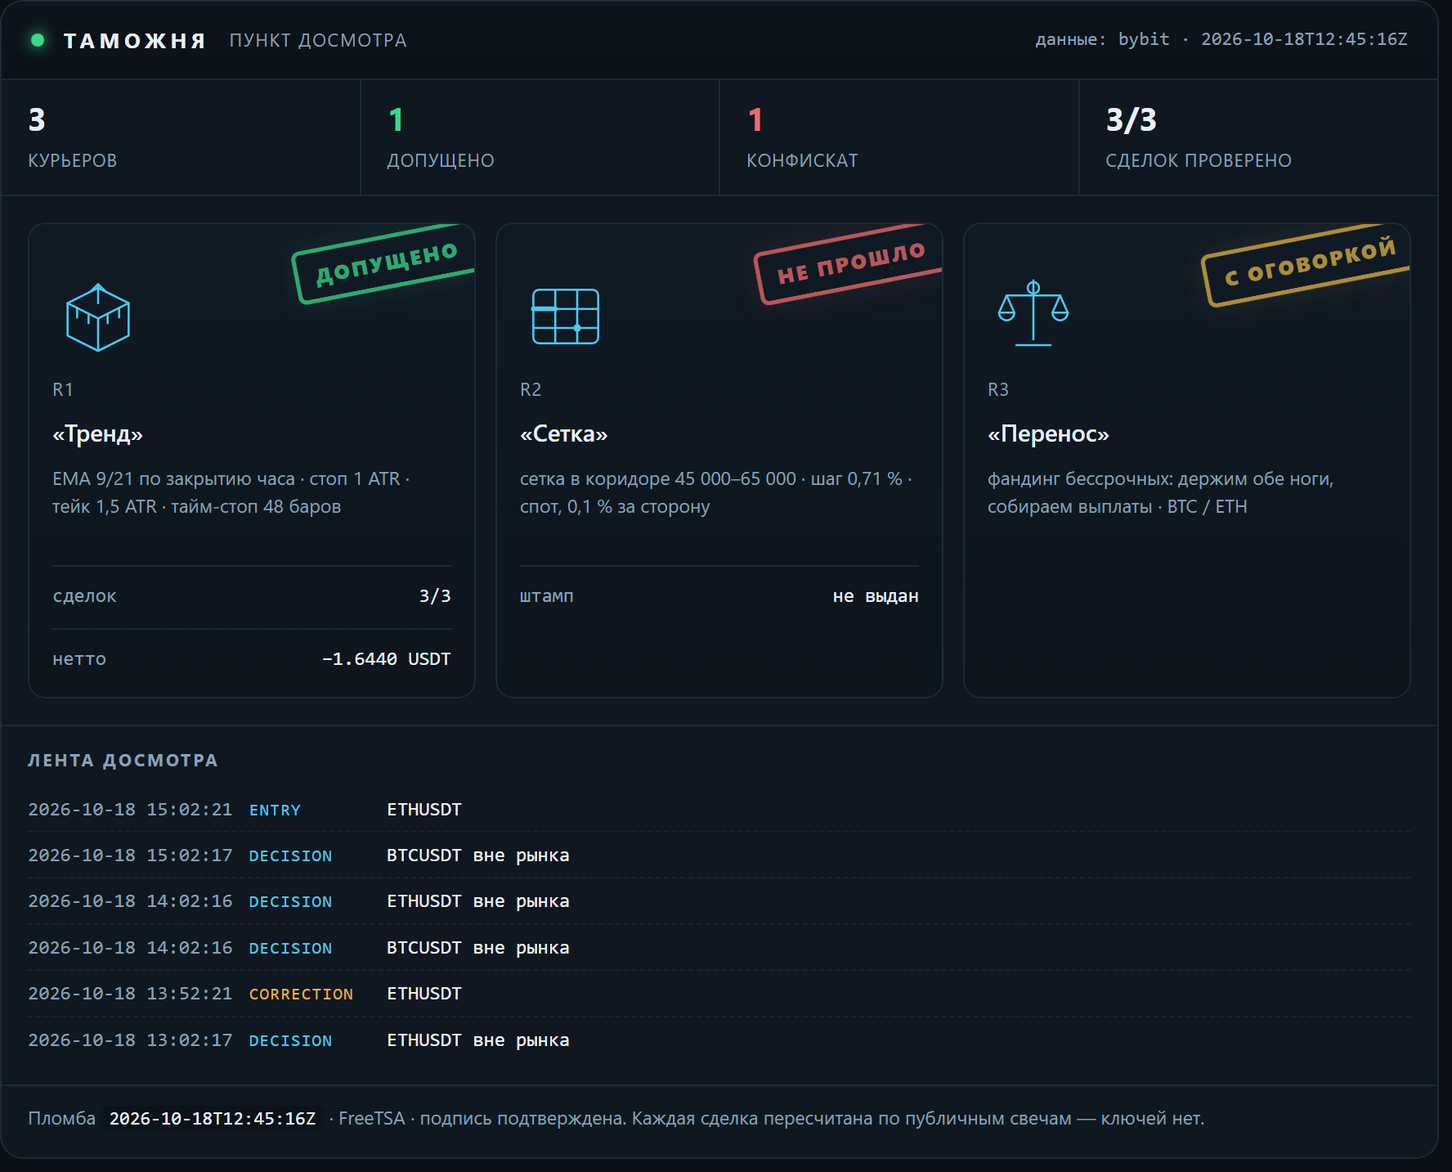
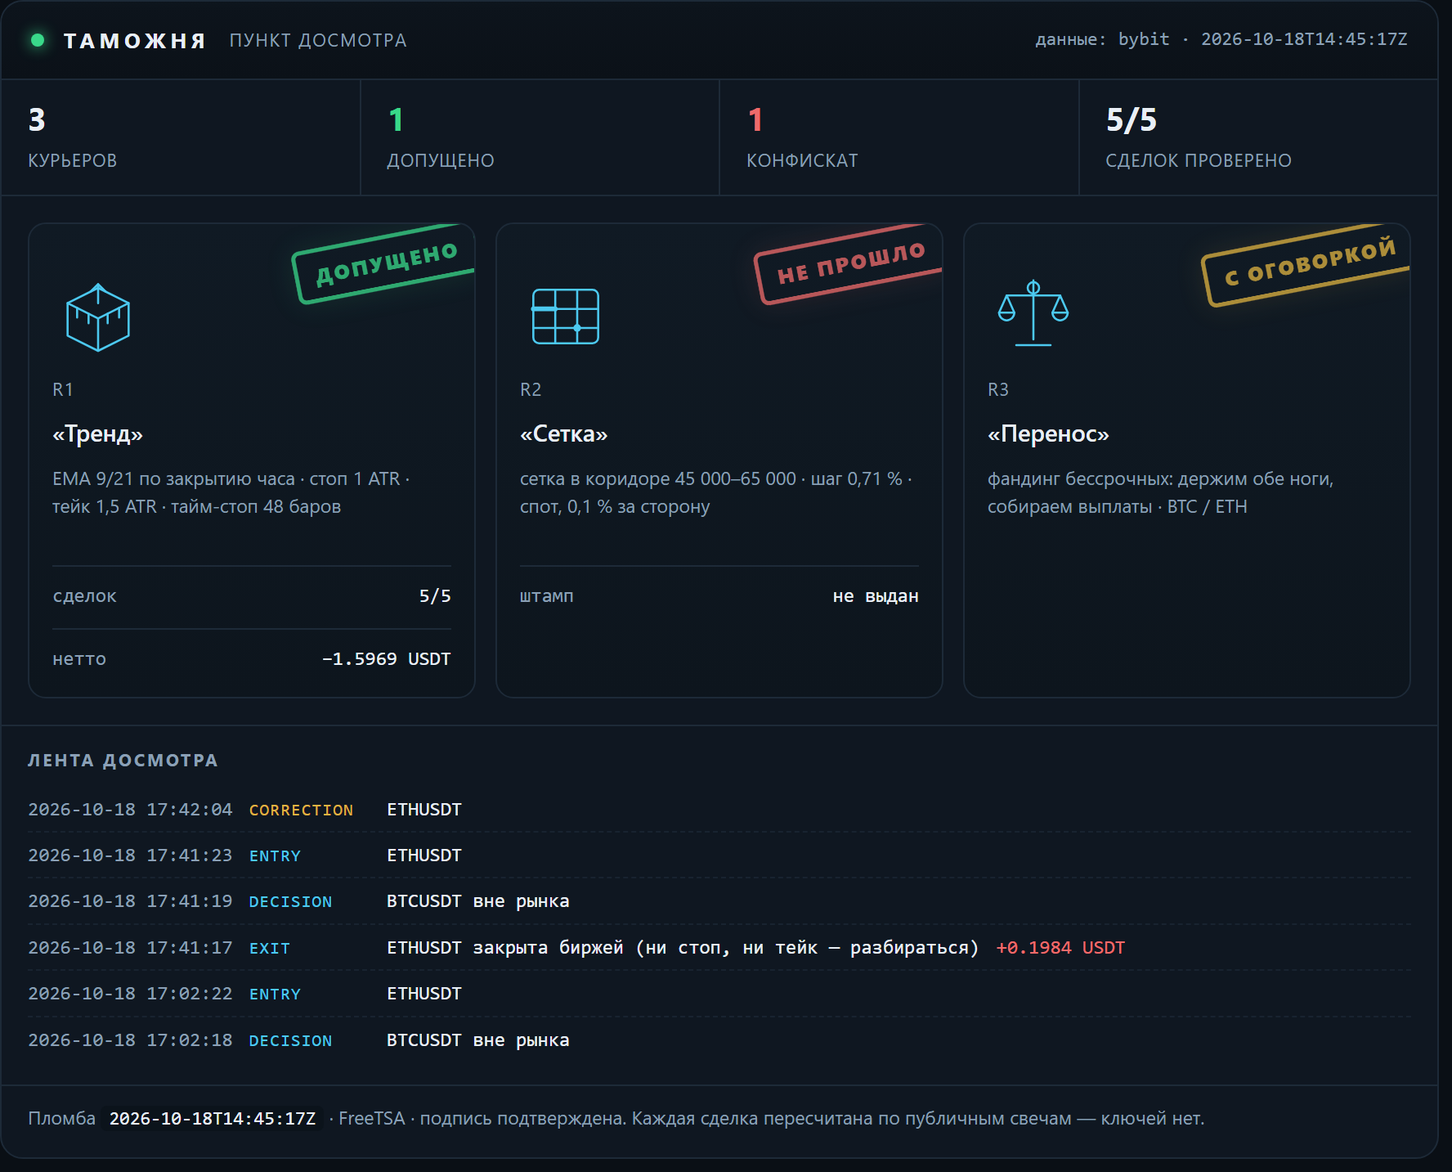
lab: таможня — свежие числа досмотра

diff --git a/docs/customs.html b/docs/customs.html
@@ -16,7 +16,7 @@
   <h1><a href="index.html">Gramwright Lab</a></h1>
   <p>Журнал проверки торговых гипотез: что проверяли, что вышло по факту, сколько съели издержки. Числа берутся из журнала стенда. Не инвестиционная рекомендация.</p>
 </header>
-<h1>Таможня</h1><p class="intro">Пункт досмотра заявленных результатов. Стратегии приезжают с грузом обещаний, и каждая проходит проверку по публичным данным биржи: цены существуют, комиссии по тарифу, нетто сходится. Что прошло — получает штамп. Что не прошло — в конфискат, с причиной. Штамп означает «записи подлинные», а не «стратегия прибыльна».</p><p><img src="img/customs.png" alt="Терминал досмотра: три курьера, штампы, лента событий" style="width:100%;height:auto;border:1px solid var(--line);border-radius:10px"></p><p class="c-note">Сверху — тот же терминал, что собирается из журналов: счётчики, эмблемы курьеров, штампы и лента последних событий. Ниже — то же самое текстом, чтобы читалось с телефона и индексировалось поиском.</p><article><h2>R1 «Тренд» <span class="verdict">— <span class="c-ok">допущено</span></span></h2><p><strong>Правило:</strong> EMA 9/21 по закрытию часа · стоп 1 ATR · тейк 1,5 ATR · тайм-стоп 48 баров</p><p><strong>Декларация:</strong> Заявлено до прогона: держать 30 сделок, лимит нотионала 10 % от счёта, стоп дня −1 %. Прибыль не заявлялась — это важно: курьер не обещал доход.</p><p><strong>Проверено по публичным свечам, без ключей:</strong> 3 из 3 сделок. Сумма нетто −1.6440 USDT.</p><ul class="c-chk"><li class="y">BTCUSDT: нетто −0.8746 USDT · комиссии 0.0901 · проверено · с поправкой</li><li class="y">BTCUSDT: нетто −0.5441 USDT · комиссии 0.0896 · проверено</li><li class="y">ETHUSDT: нетто −0.2253 USDT · комиссии 0.0266 · проверено</li></ul><p class="tags">журнал sha256 0606baa6c1547812… · проверяльщик verify-1</p><p class="c-note">Штамп означает: записи подлинные, а не что стратегия прибыльна. Курьер в минусе, и минус тоже стоит на штампе — иначе это была бы не проверка, а реклама.</p><p class="tags">источник: verify-report.json</p></article><article><h2>R2 «Сетка» <span class="verdict">— <span class="c-bad">не прошло</span></span></h2><p><strong>Правило:</strong> сетка в коридоре 45 000–65 000 · шаг 0,71 % · спот, 0,1 % за сторону</p><p><strong>Декларация:</strong> Заявлено: «44 % урожая уходит бирже в виде комиссий». Кроме того — перевес над простым владением монетой.</p><p><strong>Что сошлось:</strong></p><ul class="c-chk"><li class="y">сами числа пересчитаны и воспроизводятся: коридор 45–65k был активен 23 % всей истории и 28 % последних двух лет</li></ul><p><strong>Что не сошлось:</strong></p><ul class="c-chk"><li class="n">44 % не подтвердилось: при шаге 0,71 % и тарифе 0,1 % комиссия съедает 28,3 % шага. Чтобы получить 44 %, нужен шаг 0,45 % — это около 80 уровней, а не 50</li><li class="n">от урожая доля комиссий 85,5 % за всю историю и 49,6 % за последние два года — тоже не 44 %</li><li class="n">перевес над владением посчитан на тарифе 0,055 %: при нём +1,32 п. п., на розничном 0,1 % — −0,72 п. п. То есть перевес исчезает</li><li class="n">семилетний тест стартовал в сентябре 2019 при биткоине около 10 000 — ниже коридора. Он говорит, что фиксированный коридор не подходит для периода, а не что сетка отстаёт</li></ul><p class="tags">источник: lab_grid.py, пересчёт 17.10.2026</p></article><article><h2>R3 «Перенос» <span class="verdict">— <span class="c-warn">с оговоркой</span></span></h2><p><strong>Правило:</strong> фандинг бессрочных: держим обе ноги, собираем выплаты · BTC / ETH</p><p><strong>Декларация:</strong> Заявлено: около 11,9 % в год от выплат фандинга при просадке выплатной кривой меньше 2 %.</p><p><strong>Что сошлось:</strong></p><ul class="c-chk"><li class="y">выплаты взяты из публичной истории биржи, ключей не нужно: BTC — 7 190 выплат с 25.03.2020, ETH — 6 561 с 21.10.2020</li><li class="y">сумма сходится: +83,4 % и +83,2 % за 6,6 и 6,0 года — те самые ~11,9 % в год</li><li class="y">худшая просадка выплатной кривой: −1,65 % и −1,97 %</li></ul><p><strong>Что не сошлось:</strong></p><ul class="c-chk"><li class="n">оговорка 1: премию сжали — 2021 год дал +38,3 %, 2026 — +1,96 %. Прошлое не повторяется</li><li class="n">оговорка 2: вход-выход стоит около 0,31 %, капитала нужно 1,2 от нотионала, текущий базис −0,082 % против входа</li><li class="n">оговорка 3: риск площадки. История FTX в этой же таблице выглядела так же прилично</li></ul><p class="tags">источник: публичная история фандинга Bybit, замер 17.10.2026</p></article><div class="c-conf"><h3>Конфискат</h3><p><strong>«Сетка»: заявленные 44 % комиссий не подтвердились.</strong> Досмотр показал 28,3 % от шага и 85,5 % от урожая — цифра хуже заявленной по форме, но лучше по смыслу: сетку убивает не размер шага, а то, что урожай почти весь уходит в комиссии. Это и вышло в выпуск — с поправкой, а не с красивой цифрой.</p></div><p class="c-note">Пломба: <code>2026-10-18T12:45:16Z</code> · нотариус FreeTSA · Oct 18 12:45:16 2026 GMT · подпись подтверждена. Манифест скрепляет отчёт проверки, журнал сделок и декларации курьеров: подменишь любую цифру — пломба перестанет сходиться.</p><p class="c-note">Досмотр идёт по публичным минутным свечам и публичной истории фандинга — ключей у проверяющего нет, и он может повторить проверку сам.</p><p class="c-note">Контент образовательный, не является инвестиционной рекомендацией. Торговля связана с риском потери капитала.</p>
+<h1>Таможня</h1><p class="intro">Пункт досмотра заявленных результатов. Стратегии приезжают с грузом обещаний, и каждая проходит проверку по публичным данным биржи: цены существуют, комиссии по тарифу, нетто сходится. Что прошло — получает штамп. Что не прошло — в конфискат, с причиной. Штамп означает «записи подлинные», а не «стратегия прибыльна».</p><p><img src="img/customs.png" alt="Терминал досмотра: три курьера, штампы, лента событий" style="width:100%;height:auto;border:1px solid var(--line);border-radius:10px"></p><p class="c-note">Сверху — тот же терминал, что собирается из журналов: счётчики, эмблемы курьеров, штампы и лента последних событий. Ниже — то же самое текстом, чтобы читалось с телефона и индексировалось поиском.</p><article><h2>R1 «Тренд» <span class="verdict">— <span class="c-ok">допущено</span></span></h2><p><strong>Правило:</strong> EMA 9/21 по закрытию часа · стоп 1 ATR · тейк 1,5 ATR · тайм-стоп 48 баров</p><p><strong>Декларация:</strong> Заявлено до прогона: держать 30 сделок, лимит нотионала 10 % от счёта, стоп дня −1 %. Прибыль не заявлялась — это важно: курьер не обещал доход.</p><p><strong>Проверено по публичным свечам, без ключей:</strong> 5 из 5 сделок. Сумма нетто −1.5969 USDT.</p><ul class="c-chk"><li class="y">BTCUSDT: нетто −0.8746 USDT · комиссии 0.0901 · проверено · с поправкой</li><li class="y">BTCUSDT: нетто −0.5441 USDT · комиссии 0.0896 · проверено</li><li class="y">ETHUSDT: нетто −0.2253 USDT · комиссии 0.0266 · проверено</li><li class="y">ETHUSDT: нетто −0.1513 USDT · комиссии 0.0265 · проверено</li><li class="y">ETHUSDT: нетто +0.1984 USDT · комиссии 0.0262 · проверено</li></ul><p class="tags">журнал sha256 274df256f429161b… · проверяльщик verify-1</p><p class="c-note">Штамп означает: записи подлинные, а не что стратегия прибыльна. Курьер в минусе, и минус тоже стоит на штампе — иначе это была бы не проверка, а реклама.</p><p class="tags">источник: verify-report.json</p></article><article><h2>R2 «Сетка» <span class="verdict">— <span class="c-bad">не прошло</span></span></h2><p><strong>Правило:</strong> сетка в коридоре 45 000–65 000 · шаг 0,71 % · спот, 0,1 % за сторону</p><p><strong>Декларация:</strong> Заявлено: «44 % урожая уходит бирже в виде комиссий». Кроме того — перевес над простым владением монетой.</p><p><strong>Что сошлось:</strong></p><ul class="c-chk"><li class="y">сами числа пересчитаны и воспроизводятся: коридор 45–65k был активен 23 % всей истории и 28 % последних двух лет</li></ul><p><strong>Что не сошлось:</strong></p><ul class="c-chk"><li class="n">44 % не подтвердилось: при шаге 0,71 % и тарифе 0,1 % комиссия съедает 28,3 % шага. Чтобы получить 44 %, нужен шаг 0,45 % — это около 80 уровней, а не 50</li><li class="n">от урожая доля комиссий 85,5 % за всю историю и 49,6 % за последние два года — тоже не 44 %</li><li class="n">перевес над владением посчитан на тарифе 0,055 %: при нём +1,32 п. п., на розничном 0,1 % — −0,72 п. п. То есть перевес исчезает</li><li class="n">семилетний тест стартовал в сентябре 2019 при биткоине около 10 000 — ниже коридора. Он говорит, что фиксированный коридор не подходит для периода, а не что сетка отстаёт</li></ul><p class="tags">источник: lab_grid.py, пересчёт 17.10.2026</p></article><article><h2>R3 «Перенос» <span class="verdict">— <span class="c-warn">с оговоркой</span></span></h2><p><strong>Правило:</strong> фандинг бессрочных: держим обе ноги, собираем выплаты · BTC / ETH</p><p><strong>Декларация:</strong> Заявлено: около 11,9 % в год от выплат фандинга при просадке выплатной кривой меньше 2 %.</p><p><strong>Что сошлось:</strong></p><ul class="c-chk"><li class="y">выплаты взяты из публичной истории биржи, ключей не нужно: BTC — 7 190 выплат с 25.03.2020, ETH — 6 561 с 21.10.2020</li><li class="y">сумма сходится: +83,4 % и +83,2 % за 6,6 и 6,0 года — те самые ~11,9 % в год</li><li class="y">худшая просадка выплатной кривой: −1,65 % и −1,97 %</li></ul><p><strong>Что не сошлось:</strong></p><ul class="c-chk"><li class="n">оговорка 1: премию сжали — 2021 год дал +38,3 %, 2026 — +1,96 %. Прошлое не повторяется</li><li class="n">оговорка 2: вход-выход стоит около 0,31 %, капитала нужно 1,2 от нотионала, текущий базис −0,082 % против входа</li><li class="n">оговорка 3: риск площадки. История FTX в этой же таблице выглядела так же прилично</li></ul><p class="tags">источник: публичная история фандинга Bybit, замер 17.10.2026</p></article><div class="c-conf"><h3>Конфискат</h3><p><strong>«Сетка»: заявленные 44 % комиссий не подтвердились.</strong> Досмотр показал 28,3 % от шага и 85,5 % от урожая — цифра хуже заявленной по форме, но лучше по смыслу: сетку убивает не размер шага, а то, что урожай почти весь уходит в комиссии. Это и вышло в выпуск — с поправкой, а не с красивой цифрой.</p></div><p class="c-note">Пломба: <code>2026-10-18T14:45:17Z</code> · нотариус FreeTSA · Oct 18 14:45:17 2026 GMT · подпись подтверждена. Манифест скрепляет отчёт проверки, журнал сделок и декларации курьеров: подменишь любую цифру — пломба перестанет сходиться.</p><p class="c-note">Досмотр идёт по публичным минутным свечам и публичной истории фандинга — ключей у проверяющего нет, и он может повторить проверку сам.</p><p class="c-note">Контент образовательный, не является инвестиционной рекомендацией. Торговля связана с риском потери капитала.</p>
 <footer class="site">
   Код стенда и аудитора: <a href="https://github.com/XSlaidx/truth-engine">XSlaidx/truth-engine</a>
   &middot; <a href="graveyard.html">кладбище правил</a>
